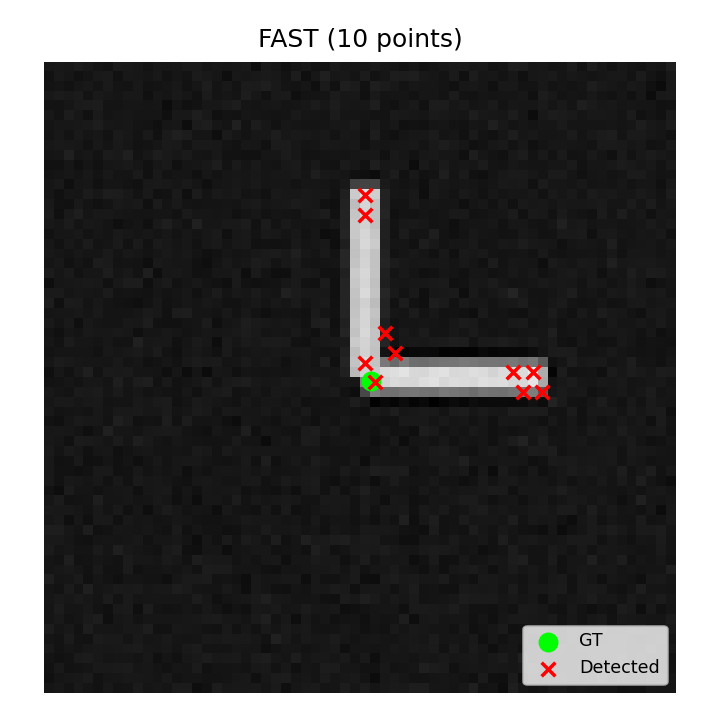
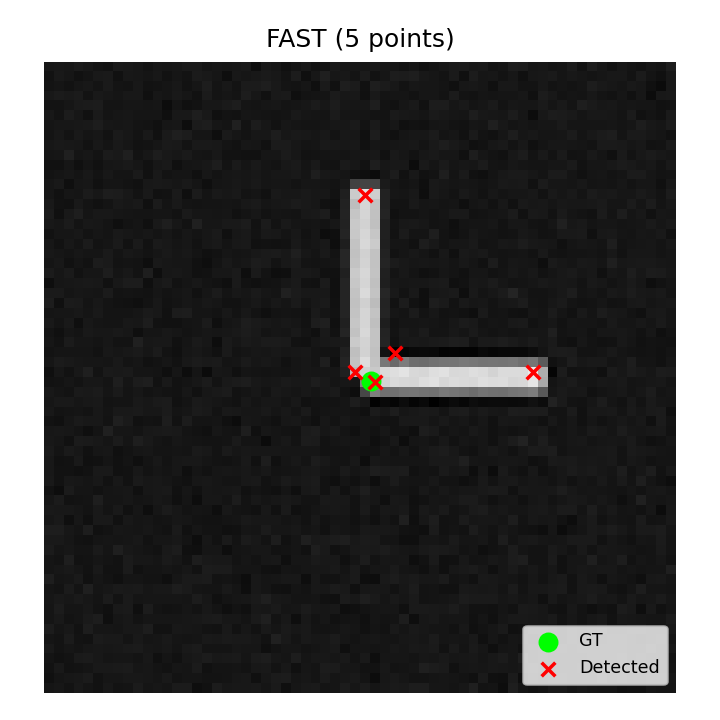
Add ORB baseline metrics

diff --git a/scripts/run_day1_baselines.py b/scripts/run_day1_baselines.py
@@ -18,7 +18,7 @@ ROOT = Path(__file__).resolve().parents[1]
 if str(ROOT) not in sys.path:
     sys.path.insert(0, str(ROOT))
 
-from qcd_data.baselines import evaluate_points, run_fast, run_harris, save_overlay, save_overlay_comparison
+from qcd_data.baselines import evaluate_points, run_fast, run_harris, run_orb, save_overlay, save_overlay_comparison
 from qcd_data.features import FEATURE_NAMES, extract_patch_features
 from qcd_data.synthetic import SyntheticKeypointConfig, extract_patches, generate_sample
 
@@ -124,16 +124,19 @@ def main() -> None:
     display_gt = samples[display_index].points_xy
     harris_points = run_harris(display_image, threshold_rel=0.01, max_points=40)
     fast_points = run_fast(display_image, threshold=20, max_points=40)
+    orb_points = run_orb(display_image, max_points=40)
     mlp_points, mlp_probabilities = predict_keypoints_with_mlp(display_image, mlp, config.patch_size)
 
     save_overlay(display_image, harris_points, outputs_dir / "harris_overlay.png", display_gt, "Harris")
     save_overlay(display_image, fast_points, outputs_dir / "fast_overlay.png", display_gt, "FAST")
+    save_overlay(display_image, orb_points, outputs_dir / "orb_overlay.png", display_gt, "ORB")
     save_overlay(display_image, mlp_points, outputs_dir / "mlp_overlay.png", display_gt, "MLP")
     save_overlay_comparison(
         display_image,
         display_gt,
         harris_points,
         fast_points,
+        orb_points,
         mlp_points,
         outputs_dir / "day1_overlay_comparison.png",
     )
@@ -141,7 +144,10 @@ def main() -> None:
 
     harris_metrics = evaluate_points(harris_points, display_gt)
     fast_metrics = evaluate_points(fast_points, display_gt)
+    orb_metrics = evaluate_points(orb_points, display_gt)
     mlp_point_metrics = evaluate_points(mlp_points, display_gt)
+    baseline_metrics = evaluate_baselines(images, keypoints, mlp, config.patch_size)
+    save_baseline_metric_chart(baseline_metrics, outputs_dir / "baseline_metrics.png")
     metrics = {
         "dataset": {
             "num_images": int(len(images)),
@@ -166,17 +172,21 @@ def main() -> None:
             "gt_points": display_gt.tolist(),
             "harris": _metrics_dict(harris_metrics),
             "fast": _metrics_dict(fast_metrics),
+            "orb": _metrics_dict(orb_metrics),
             "mlp": _metrics_dict(mlp_point_metrics),
             "mlp_probability_threshold": 0.5,
             "mlp_probability_max": float(np.max(mlp_probabilities)),
         },
+        "baseline_evaluation": baseline_metrics,
     }
     (outputs_dir / "mlp_metrics.json").write_text(json.dumps(metrics, indent=2), encoding="utf-8")
+    (outputs_dir / "baseline_metrics.json").write_text(json.dumps(baseline_metrics, indent=2), encoding="utf-8")
 
     print("Day 1 baseline pipeline complete.")
     print(f"Wrote {data_dir / 'patch_dataset.npz'}")
     print(f"Wrote {data_dir / 'feature_dataset.npz'}")
     print(f"Wrote {outputs_dir / 'day1_overlay_comparison.png'}")
+    print(f"Wrote {outputs_dir / 'baseline_metrics.json'}")
     print(json.dumps(metrics["mlp_validation"], indent=2))
 
 
@@ -218,6 +228,70 @@ def save_training_curve(loss_curve: list[float], path: Path) -> None:
     ax.set_ylabel("Binary cross entropy")
     ax.set_title("MLP training loss")
     ax.grid(alpha=0.25)
+    fig.tight_layout()
+    fig.savefig(path, dpi=180)
+    plt.close(fig)
+
+
+def evaluate_baselines(images: np.ndarray, keypoints: np.ndarray, mlp, patch_size: int) -> dict[str, dict[str, float | int]]:
+    totals = {
+        "harris": {"tp": 0, "fp": 0, "fn": 0, "detected_points": 0},
+        "fast": {"tp": 0, "fp": 0, "fn": 0, "detected_points": 0},
+        "orb": {"tp": 0, "fp": 0, "fn": 0, "detected_points": 0},
+        "mlp": {"tp": 0, "fp": 0, "fn": 0, "detected_points": 0},
+    }
+
+    for image, gt_xy in zip(images, keypoints):
+        detections = {
+            "harris": run_harris(image, threshold_rel=0.01, max_points=40),
+            "fast": run_fast(image, threshold=20, max_points=40),
+            "orb": run_orb(image, max_points=40),
+            "mlp": predict_keypoints_with_mlp(image, mlp, patch_size)[0],
+        }
+        for name, points in detections.items():
+            metrics = evaluate_points(points, gt_xy)
+            totals[name]["tp"] += metrics.true_positives
+            totals[name]["fp"] += metrics.false_positives
+            totals[name]["fn"] += metrics.false_negatives
+            totals[name]["detected_points"] += int(len(points))
+
+    results: dict[str, dict[str, float | int]] = {}
+    for name, values in totals.items():
+        tp = int(values["tp"])
+        fp = int(values["fp"])
+        fn = int(values["fn"])
+        precision = tp / max(1, tp + fp)
+        recall = tp / max(1, tp + fn)
+        f1 = 2.0 * precision * recall / max(1e-12, precision + recall)
+        results[name] = {
+            "precision": precision,
+            "recall": recall,
+            "f1": f1,
+            "true_positives": tp,
+            "false_positives": fp,
+            "false_negatives": fn,
+            "detected_points": int(values["detected_points"]),
+            "evaluated_images": int(len(images)),
+        }
+    return results
+
+
+def save_baseline_metric_chart(metrics: dict[str, dict[str, float | int]], path: Path) -> None:
+    names = list(metrics)
+    metric_names = ["precision", "recall", "f1"]
+    x = np.arange(len(names))
+    width = 0.24
+    fig, ax = plt.subplots(figsize=(7, 4))
+    for offset, metric_name in enumerate(metric_names):
+        values = [float(metrics[name][metric_name]) for name in names]
+        ax.bar(x + (offset - 1) * width, values, width=width, label=metric_name)
+    ax.set_xticks(x)
+    ax.set_xticklabels([name.upper() if name != "mlp" else "MLP" for name in names])
+    ax.set_ylim(0.0, 1.05)
+    ax.set_ylabel("Score")
+    ax.set_title("Classical baseline comparison on synthetic images")
+    ax.grid(axis="y", alpha=0.25)
+    ax.legend()
     fig.tight_layout()
     fig.savefig(path, dpi=180)
     plt.close(fig)

diff --git a/qcd_data/baselines.py b/qcd_data/baselines.py
@@ -57,6 +57,28 @@ def run_fast(
     return fast9_numpy(image_u8, threshold=threshold, max_points=max_points, min_distance=min_distance)
 
 
+def run_orb(
+    image: np.ndarray,
+    nfeatures: int = 80,
+    fast_threshold: int = 5,
+    max_points: int = 80,
+    min_distance: float = 2.0,
+) -> np.ndarray:
+    """Run ORB keypoint detection. Requires OpenCV."""
+    if cv2 is None:
+        raise ImportError("run_orb requires opencv-python.")
+    image_u8 = np.uint8(np.clip(image, 0.0, 1.0) * 255)
+    detector = cv2.ORB_create(
+        nfeatures=nfeatures,
+        edgeThreshold=4,
+        patchSize=15,
+        fastThreshold=fast_threshold,
+    )
+    keypoints = detector.detect(image_u8, None)
+    scored = [(float(kp.response), float(kp.pt[0]), float(kp.pt[1])) for kp in keypoints]
+    return _select_scored_points(scored, max_points, min_distance)
+
+
 def harris_response_numpy(image: np.ndarray, window_size: int = 3, k: float = 0.04) -> np.ndarray:
     image = np.asarray(image, dtype=np.float32)
     iy, ix = np.gradient(image)
@@ -161,6 +183,7 @@ def save_overlay_comparison(
     gt_xy: np.ndarray,
     harris_xy: np.ndarray,
     fast_xy: np.ndarray,
+    orb_xy: np.ndarray,
     mlp_xy: np.ndarray,
     path: Path,
 ) -> None:
@@ -169,9 +192,11 @@ def save_overlay_comparison(
         ("GT keypoints", gt_xy, "lime", "o"),
         ("Harris", harris_xy, "red", "x"),
         ("FAST", fast_xy, "red", "x"),
+        ("ORB", orb_xy, "red", "x"),
         ("MLP", mlp_xy, "red", "x"),
     ]
-    fig, axes = plt.subplots(2, 2, figsize=(7, 7))
+    fig, axes = plt.subplots(2, 3, figsize=(10, 7))
+    axes.flat[-1].axis("off")
     for ax, (title, points, color, marker) in zip(axes.flat, panels):
         ax.imshow(image, cmap="gray", vmin=0.0, vmax=1.0)
         points = np.asarray(points, dtype=np.float32).reshape(-1, 2)

diff --git a/README.md b/README.md
@@ -20,10 +20,13 @@ corner/keypoint。第一版只负责 QNN 模型搭建、训练、验证和消融
 ├── train_qnn.py
 ├── outputs/
 │   ├── day1_overlay_comparison.png
+│   ├── baseline_metrics.json
+│   ├── baseline_metrics.png
 │   ├── fast_overlay.png
 │   ├── harris_overlay.png
 │   ├── mlp_metrics.json
 │   ├── mlp_overlay.png
+│   ├── orb_overlay.png
 │   └── mlp_training_curve.png
 ├── qcd_data/
 │   ├── __init__.py
@@ -52,7 +55,7 @@ corner/keypoint。第一版只负责 QNN 模型搭建、训练、验证和消融
 python -m pip install -r requirements.txt
 ```
 
-`opencv-python` is optional. If it is installed, the baseline script uses native `cv2.cornerHarris()` and `cv2.FastFeatureDetector_create()`. Without OpenCV, the script uses built-in NumPy Harris and FAST-9 style fallbacks so the Day 1 pipeline still runs.
+`opencv-python` is included so the Day 1 baseline script can run native Harris, FAST, and ORB detectors. The Harris/FAST helpers still include NumPy fallbacks for lightweight smoke tests, but ORB evaluation requires OpenCV.
 
 ## Generate Data
 
@@ -160,10 +163,13 @@ python run_ablation.py --data data/synthetic_corner_data.npz --output-dir output
 ├── train_qnn.py
 ├── outputs/
 │   ├── day1_overlay_comparison.png
+│   ├── baseline_metrics.json
+│   ├── baseline_metrics.png
 │   ├── fast_overlay.png
 │   ├── harris_overlay.png
 │   ├── mlp_metrics.json
 │   ├── mlp_overlay.png
+│   ├── orb_overlay.png
 │   └── mlp_training_curve.png
 ├── qcd_data/
 │   ├── __init__.py
@@ -175,18 +181,22 @@ python run_ablation.py --data data/synthetic_corner_data.npz --output-dir output
   ├── generate_synthetic_dataset.py
   └── run_day1_baselines.py
 ```
-- `outputs/day1_overlay_comparison.png`: 2x2 GT/Harris/FAST/MLP comparison figure.
+- `outputs/day1_overlay_comparison.png`: GT/Harris/FAST/ORB/MLP comparison figure.
+- `outputs/baseline_metrics.json`: Precision/Recall/F1 for Harris, FAST, ORB, and MLP over all 300 synthetic images.
+- `outputs/baseline_metrics.png`: bar-chart summary of the same baseline metrics.
 
-Current MLP validation result from the checked-in run:
+Current full-image baseline evaluation from the checked-in run:
 
 ```text
-precision = 0.9122
-recall    = 0.9147
-f1        = 0.9134
-loss      = 0.0203
+method   precision   recall   f1
+Harris   0.1666      0.9600   0.2839
+FAST     0.0666      0.8733   0.1238
+ORB      0.0296      1.0000   0.0576
+MLP      0.1219      0.9067   0.2149
 ```
 
 ![Day 1 overlay comparison](outputs/day1_overlay_comparison.png)
+![Day 1 baseline metrics](outputs/baseline_metrics.png)
 
 典型用法：
 
@@ -393,10 +403,13 @@ os.environ["KMP_DUPLICATE_LIB_OK"] = "TRUE"
 ├── quantum_corner_keypoint_detection.pdf
 ├── outputs/
 │   ├── day1_overlay_comparison.png
+│   ├── baseline_metrics.json
+│   ├── baseline_metrics.png
 │   ├── fast_overlay.png
 │   ├── harris_overlay.png
 │   ├── mlp_metrics.json
 │   ├── mlp_overlay.png
+│   ├── orb_overlay.png
 │   └── mlp_training_curve.png
 ├── qcd_data/
 │   ├── __init__.py
@@ -425,7 +438,7 @@ os.environ["KMP_DUPLICATE_LIB_OK"] = "TRUE"
 python -m pip install -r requirements.txt
 ```
 
-`opencv-python` 是可选依赖。安装后 baseline 脚本会调用原生 `cv2.cornerHarris()` 和 `cv2.FastFeatureDetector_create()`；如果没有安装 OpenCV，脚本会使用内置的 NumPy Harris 和 FAST-9 风格回退实现，因此第一天闭环仍可运行。
+`opencv-python` 已列入依赖，用于运行原生 Harris、FAST 和 ORB baseline。Harris/FAST 工具函数仍保留 NumPy 回退，方便轻量 smoke test；但 ORB 评估需要 OpenCV。
 
 ## 生成数据
 
@@ -500,18 +513,23 @@ python scripts/run_day1_baselines.py
 - `data/feature_dataset.npz`：`X_features [7500, 9]`、`y [7500]` 和特征名。
 - `outputs/harris_overlay.png`：单张样本上的 Harris 检测结果。
 - `outputs/fast_overlay.png`：单张样本上的 FAST 检测结果。
+- `outputs/orb_overlay.png`：单张样本上的 ORB 检测结果。
 - `outputs/mlp_overlay.png`：单张样本上的 MLP 检测结果。
 - `outputs/mlp_training_curve.png`：MLP 二元交叉熵训练曲线。
 - `outputs/mlp_metrics.json`：数据集摘要、验证指标和 overlay 点匹配指标。
-- `outputs/day1_overlay_comparison.png`：GT/Harris/FAST/MLP 的 2x2 对比图。
+- `outputs/baseline_metrics.json`：300 张合成图上 Harris、FAST、ORB、MLP 的 Precision/Recall/F1。
+- `outputs/baseline_metrics.png`：上述指标的柱状图。
+- `outputs/day1_overlay_comparison.png`：GT/Harris/FAST/ORB/MLP 对比图。
 
-当前已纳入仓库的 MLP 验证结果：
+当前已纳入仓库的全图 baseline 评估结果：
 
 ```text
-precision = 0.9122
-recall    = 0.9147
-f1        = 0.9134
-loss      = 0.0203
+method   precision   recall   f1
+Harris   0.1666      0.9600   0.2839
+FAST     0.0666      0.8733   0.1238
+ORB      0.0296      1.0000   0.0576
+MLP      0.1219      0.9067   0.2149
 ```
 
 ![第一天 overlay 对比图](outputs/day1_overlay_comparison.png)
+![第一天 baseline 指标](outputs/baseline_metrics.png)